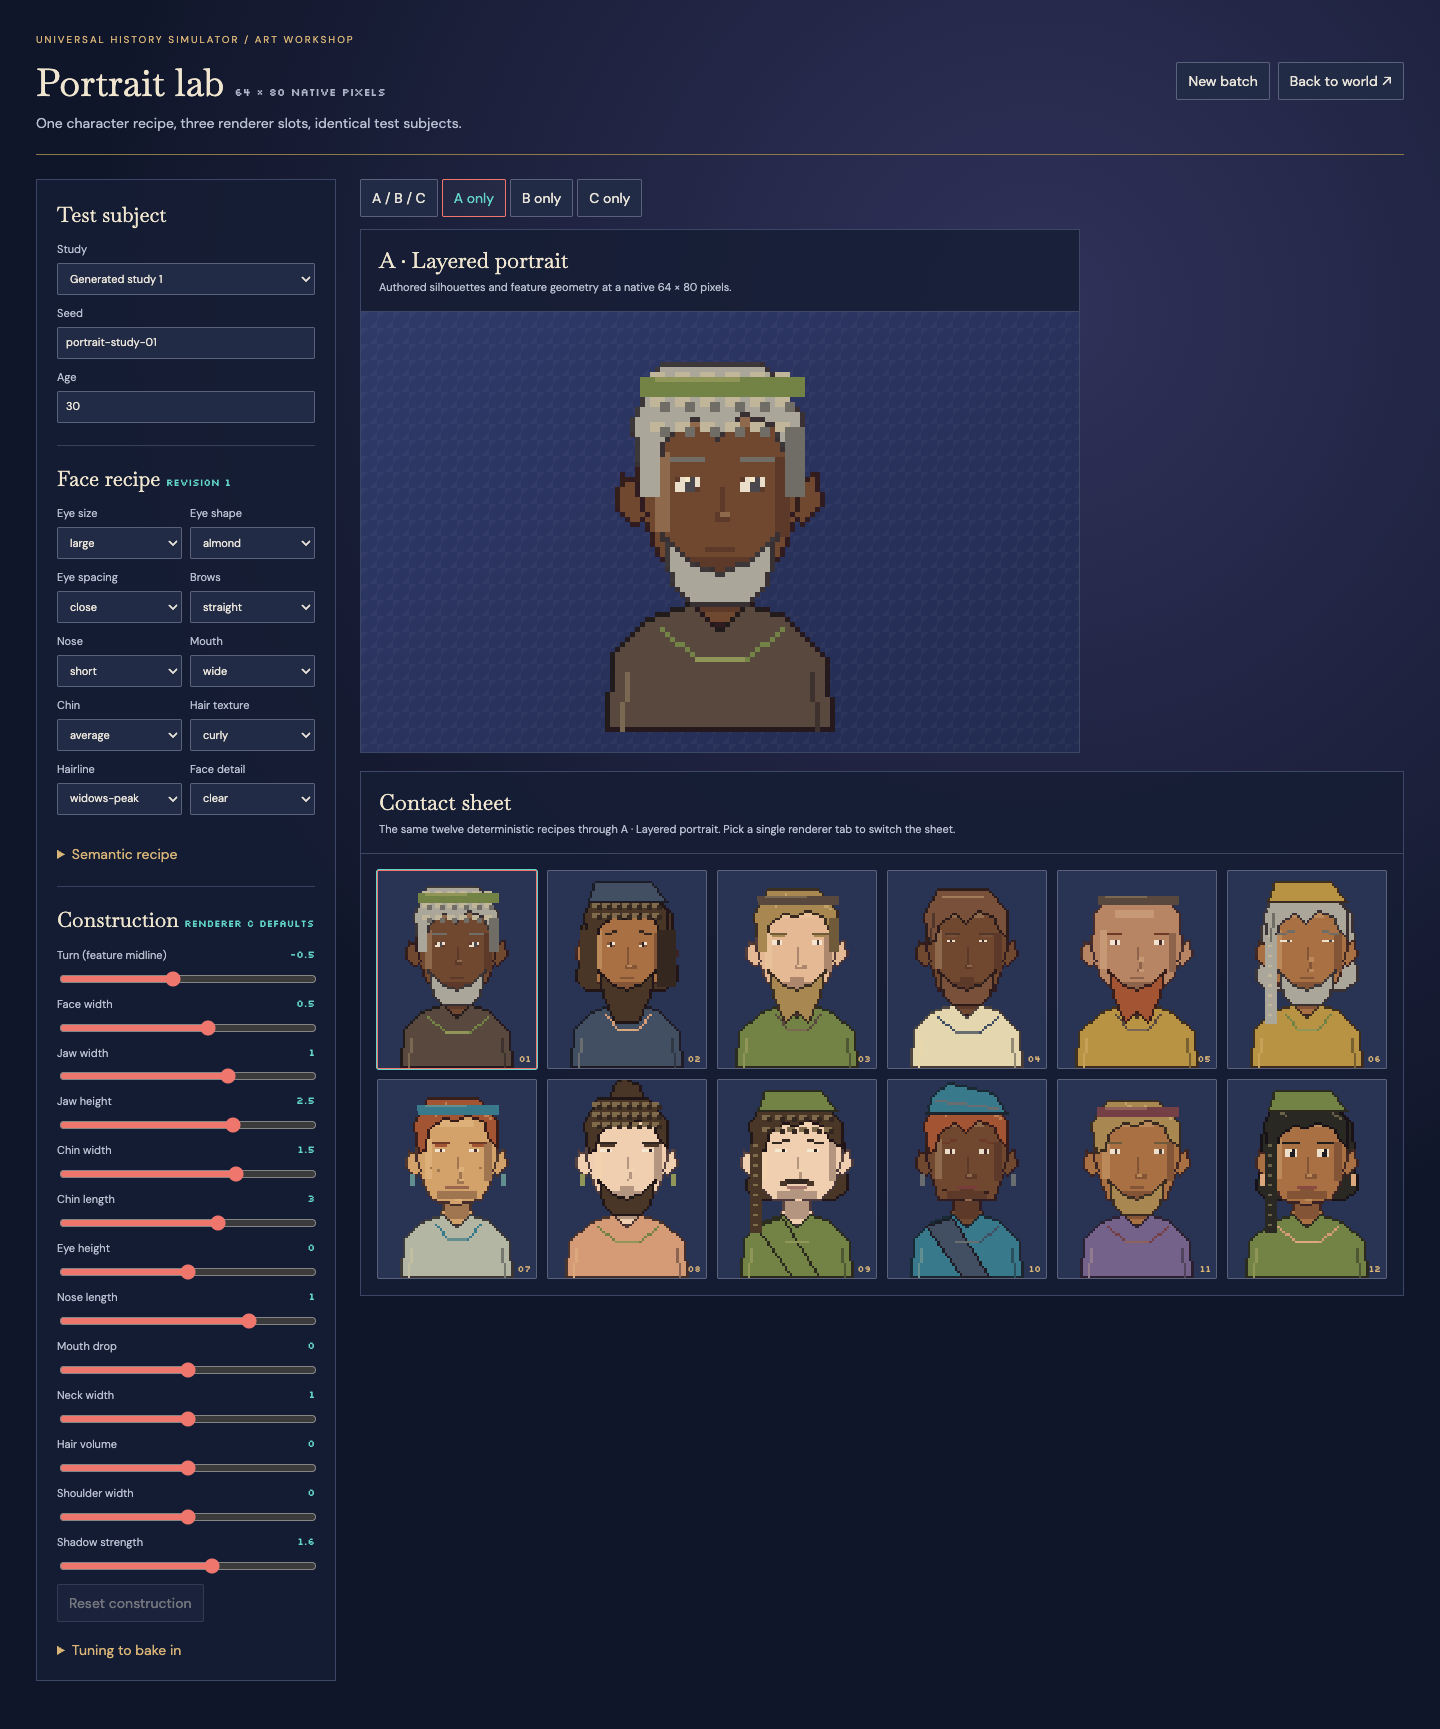
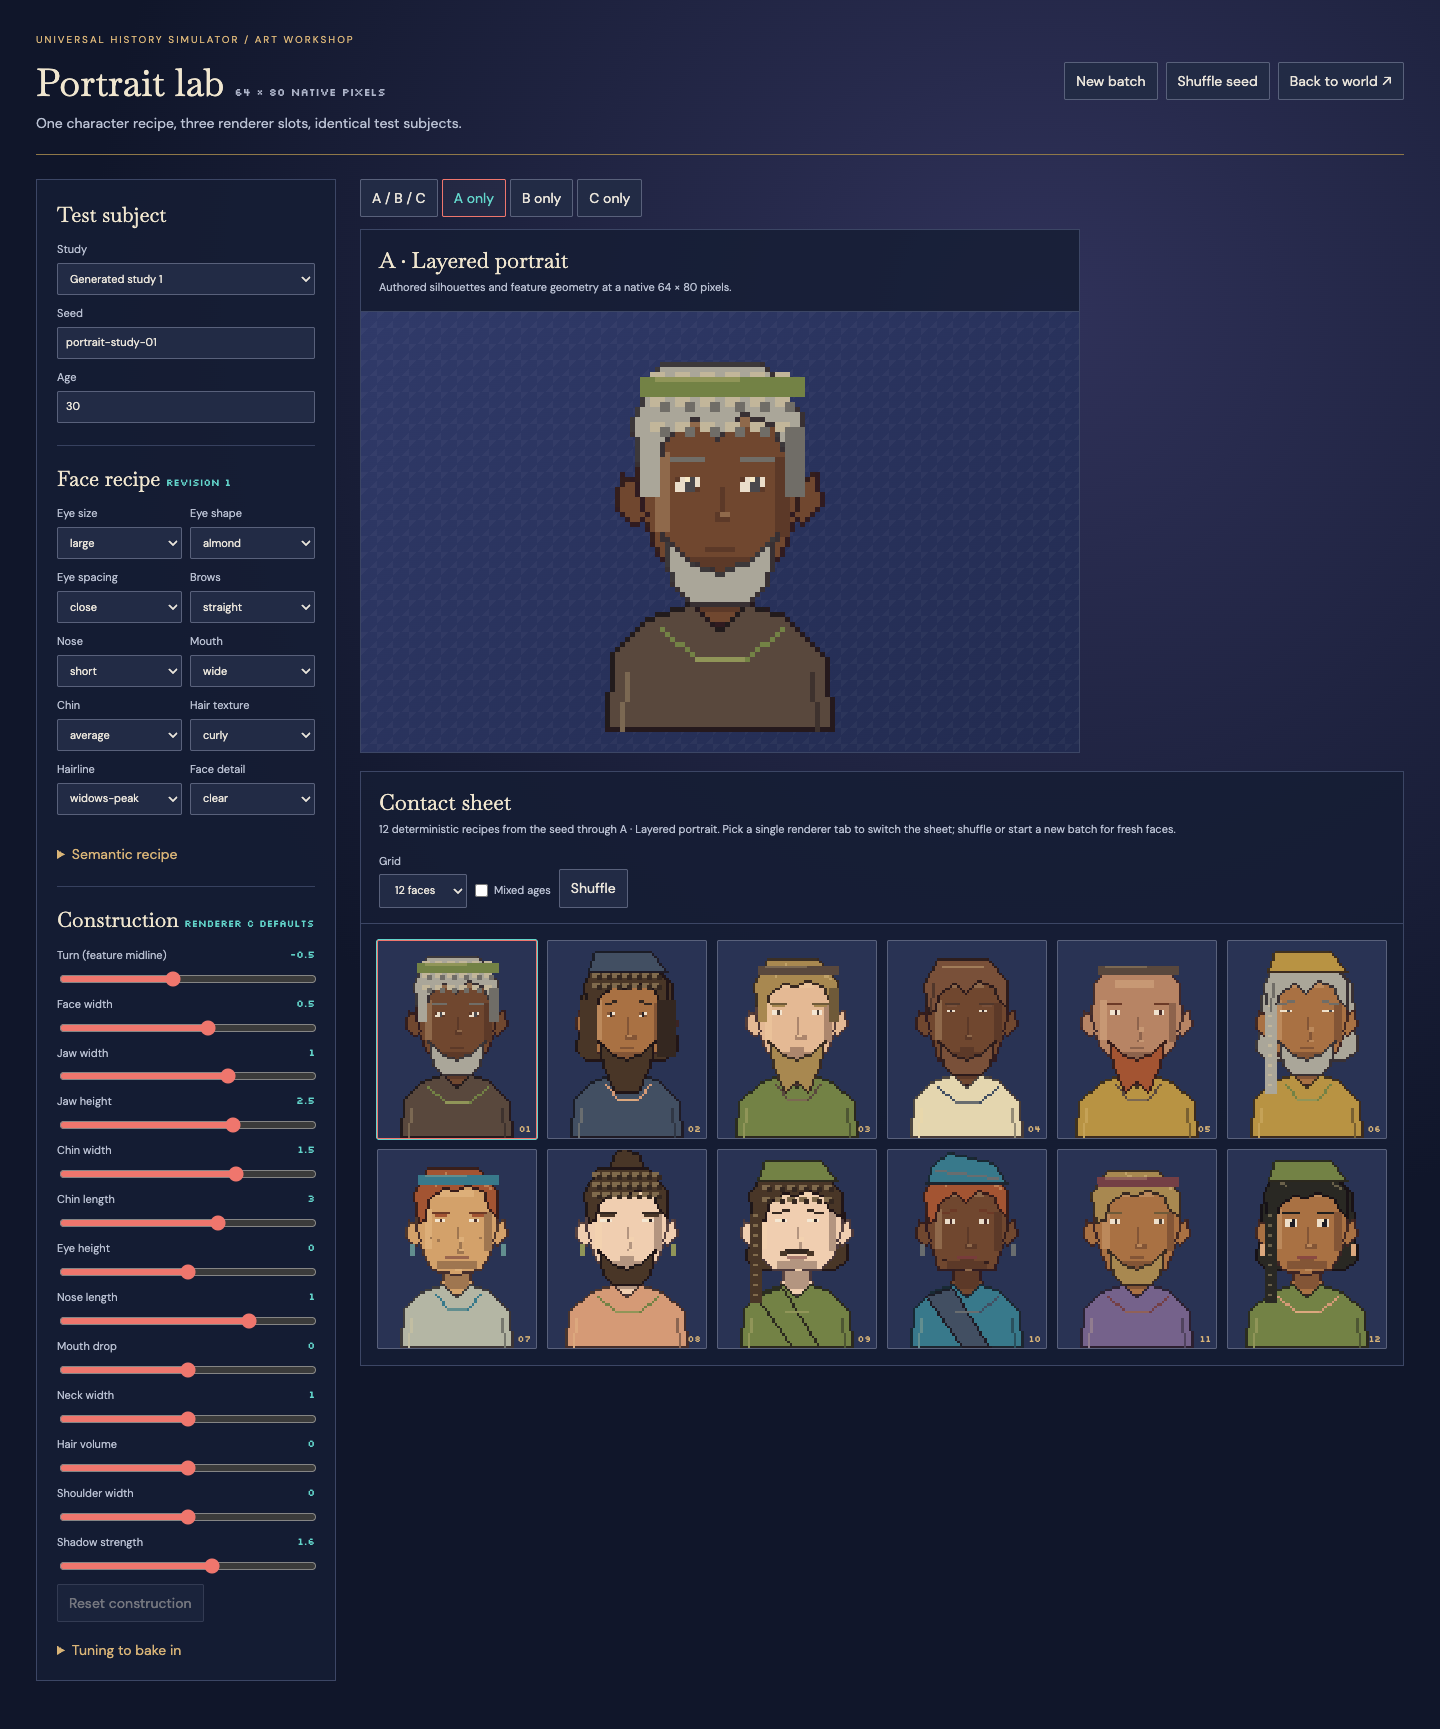
Add random grids and mixed ages to the portrait lab

Changed region(s): [[0.25, 0.4685, 0.9688, 0.7808], [0.75, 0.0312, 0.875, 0.0625]]

diff --git a/src/dev/PortraitLab.tsx b/src/dev/PortraitLab.tsx
@@ -15,6 +15,7 @@ import {
   type CharacterAppearance,
   type CharacterFace,
 } from "../core/character";
+import { random } from "../core/random";
 import type { Runtime } from "../runtime/session";
 import {
   constructedDefaults,
@@ -101,19 +102,45 @@ export function PortraitLab({
   const tuned = (Object.keys(tuning) as (keyof ConstructedTuning)[]).filter(
     (key) => tuning[key] !== constructedDefaults[key],
   );
+  const [gridSize, setGridSize] = useState(12);
+  const [mixedAges, setMixedAges] = useState(false);
+  // Ages sampled per cell when mixed: a spread of children, adults and elders.
+  const studyAges = useMemo(
+    () =>
+      Array.from({ length: gridSize }, (_, index) => {
+        if (!mixedAges) return age;
+        const roll = random(`${seed}:${batch}`, "study-age", index);
+        const span = random(`${seed}:${batch}`, "study-age-span", index);
+        return roll < 0.15
+          ? 4 + Math.floor(span * 9)
+          : roll < 0.25
+            ? 13 + Math.floor(span * 5)
+            : roll < 0.8
+              ? 18 + Math.floor(span * 37)
+              : 55 + Math.floor(span * 26);
+      }),
+    [gridSize, mixedAges, seed, batch, age],
+  );
   const generated = useMemo(
     () =>
-      Array.from({ length: 12 }, (_, index) =>
-        generateAppearance(`${seed}:${batch}`, index, age),
+      studyAges.map((studyAge, index) =>
+        generateAppearance(`${seed}:${batch}`, index, studyAge),
       ),
-    [seed, batch, age],
+    [seed, batch, studyAges],
   );
+  const shuffle = () => {
+    setSeed(`shuffle-${Math.random().toString(36).slice(2, 8)}`);
+    setActorId("generated-0");
+  };
   const actorIndex = Number(actorId.replace("generated-", ""));
   const live = liveActors.find((actor) => actor.id === actorId);
   const base = live
     ? runtime!.appearanceFor(live)
     : (generated[Number.isFinite(actorIndex) ? actorIndex : 0] ?? generated[0]);
-  const activeAge = live?.age ?? age;
+  const activeAge =
+    live?.age ??
+    (Number.isFinite(actorIndex) ? studyAges[actorIndex] : undefined) ??
+    age;
   const [edited, setEdited] = useState<CharacterAppearance>(() =>
     withFace(base, seed, activeAge),
   );
@@ -173,6 +200,7 @@ export function PortraitLab({
           <button onClick={() => setBatch((value) => value + 1)}>
             New batch
           </button>
+          <button onClick={shuffle}>Shuffle seed</button>
           {onClose ? (
             <button onClick={onClose}>Back to world ×</button>
           ) : (
@@ -361,28 +389,62 @@ export function PortraitLab({
 
           <section className="portrait-contact-section">
             <header>
-              <h2>Contact sheet</h2>
-              <p>
-                The same twelve deterministic recipes through{" "}
-                {sheetSystem.label}. Pick a single renderer tab to switch the
-                sheet.
-              </p>
+              <div>
+                <h2>Contact sheet</h2>
+                <p>
+                  {gridSize} deterministic recipes from the seed through{" "}
+                  {sheetSystem.label}. Pick a single renderer tab to switch the
+                  sheet; shuffle or start a new batch for fresh faces.
+                </p>
+              </div>
+              <div className="portrait-sheet-controls">
+                <label>
+                  Grid
+                  <select
+                    aria-label="Grid size"
+                    value={gridSize}
+                    onChange={(event) => {
+                      setGridSize(Number(event.target.value));
+                      setActorId("generated-0");
+                    }}
+                  >
+                    {[12, 24, 48].map((size) => (
+                      <option key={size} value={size}>
+                        {size} faces
+                      </option>
+                    ))}
+                  </select>
+                </label>
+                <label className="portrait-check">
+                  <input
+                    type="checkbox"
+                    checked={mixedAges}
+                    onChange={(event) => setMixedAges(event.target.checked)}
+                  />
+                  Mixed ages
+                </label>
+                <button onClick={shuffle}>Shuffle</button>
+              </div>
             </header>
-            <div className="portrait-contact-sheet">
+            <div className="portrait-contact-sheet" data-size={gridSize}>
               {generated.map((appearance, index) => (
                 <button
                   key={index}
                   aria-pressed={actorId === `generated-${index}`}
                   onClick={() => setActorId(`generated-${index}`)}
+                  title={`Study ${index + 1} · age ${studyAges[index]}`}
                 >
                   <PortraitCanvas
                     system={sheetSystem}
                     appearance={appearance}
-                    age={age}
+                    age={studyAges[index]}
                     label={`Generated study ${index + 1}`}
                     options={options}
                   />
-                  <span>{String(index + 1).padStart(2, "0")}</span>
+                  <span>
+                    {String(index + 1).padStart(2, "0")}
+                    {mixedAges ? ` · ${studyAges[index]}` : ""}
+                  </span>
                 </button>
               ))}
             </div>

diff --git a/tests/browser/portrait-lab.spec.ts b/tests/browser/portrait-lab.spec.ts
@@ -40,14 +40,22 @@ test("portrait lab compares one recipe across two renderer slots", async ({
   const jaw = page.getByRole("slider", { name: "Jaw width" });
   await jaw.focus();
   for (let i = 0; i < 4; i++) await jaw.press("ArrowRight");
-  await expect(jaw).toHaveValue("2");
+  await expect(jaw).toHaveValue("3");
   await page.waitForTimeout(200);
   expect(await stageData()).not.toBe(cBefore);
-  await expect(page.getByText('"jawWidth": 2')).toBeVisible();
+  await expect(page.getByText('"jawWidth": 3')).toBeVisible();
   await page.getByRole("button", { name: "Reset construction" }).click();
-  await expect(jaw).toHaveValue("0");
+  await expect(jaw).toHaveValue("1");
   await page.waitForTimeout(200);
   expect(await stageData()).toBe(cBefore);
+
+  await page.getByLabel("Grid size").selectOption("24");
+  await expect(page.locator(".portrait-contact-sheet canvas")).toHaveCount(24);
+  const seedBefore = await page.getByLabel("Seed").inputValue();
+  await page.getByRole("button", { name: "Shuffle", exact: true }).click();
+  expect(await page.getByLabel("Seed").inputValue()).not.toBe(seedBefore);
+  await page.getByLabel("Mixed ages").check();
+  await expect(page.locator(".portrait-contact-sheet canvas")).toHaveCount(24);
 
   for (const [tab, file] of [
     ["B only", "three-quarter-v1"],
@@ -55,7 +63,7 @@ test("portrait lab compares one recipe across two renderer slots", async ({
   ]) {
     await page.getByRole("tab", { name: tab }).click();
     await expect(page.locator(".portrait-contact-sheet canvas")).toHaveCount(
-      12,
+      24,
     );
     await page.screenshot({
       path: `artifacts/portrait-lab/${file}.png`,

diff --git a/src/dev/portrait-lab.css b/src/dev/portrait-lab.css
@@ -226,11 +226,47 @@
 .portrait-contact-section {
   margin-top: 18px;
 }
+.portrait-contact-section > header {
+  display: flex;
+  justify-content: space-between;
+  align-items: flex-end;
+  gap: 16px;
+  flex-wrap: wrap;
+}
+.portrait-sheet-controls {
+  display: flex;
+  align-items: flex-end;
+  gap: 8px;
+}
+.portrait-sheet-controls label {
+  display: grid;
+  gap: 4px;
+  color: #b8bfd1;
+  font-size: 11px;
+}
+.portrait-sheet-controls .portrait-check {
+  display: flex;
+  align-items: center;
+  gap: 6px;
+  padding-bottom: 9px;
+}
+.portrait-sheet-controls input[type="checkbox"] {
+  margin: 0;
+  accent-color: var(--pl-coral);
+}
 .portrait-contact-sheet {
   display: grid;
   grid-template-columns: repeat(6, 1fr);
   gap: 10px;
   padding: 16px;
+}
+.portrait-contact-sheet[data-size="24"] {
+  grid-template-columns: repeat(8, 1fr);
+  gap: 8px;
+}
+.portrait-contact-sheet[data-size="48"] {
+  grid-template-columns: repeat(12, 1fr);
+  gap: 6px;
 }
 .portrait-contact-sheet button {
   position: relative;
